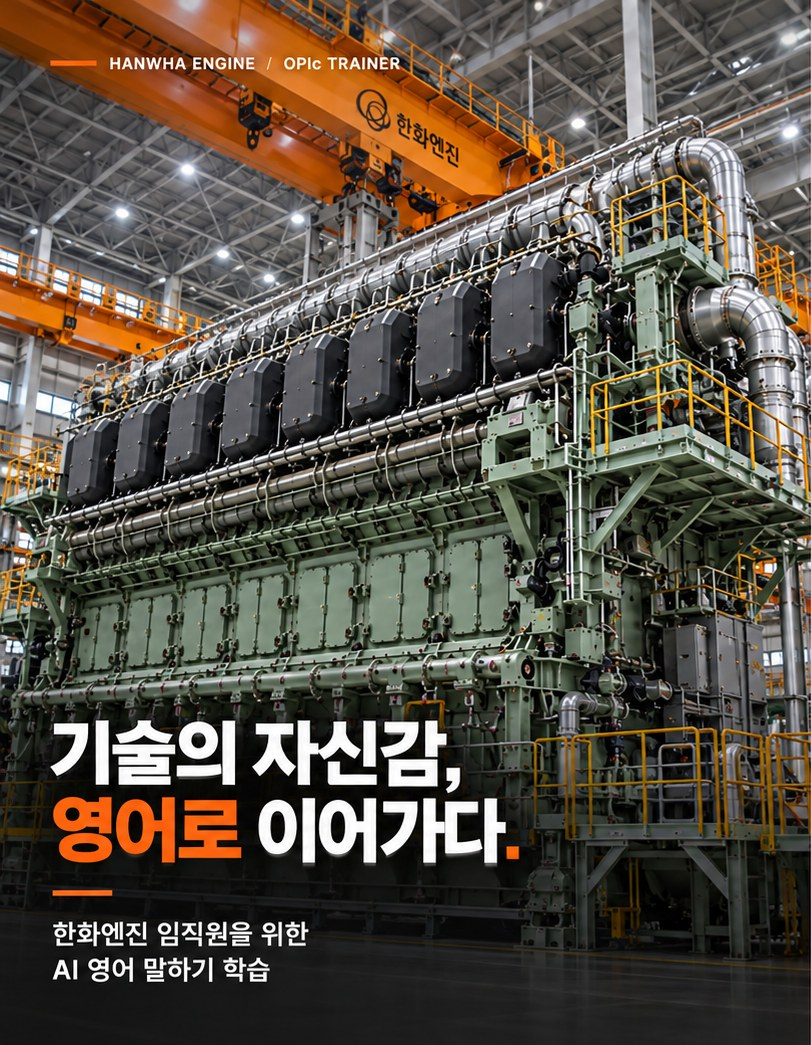
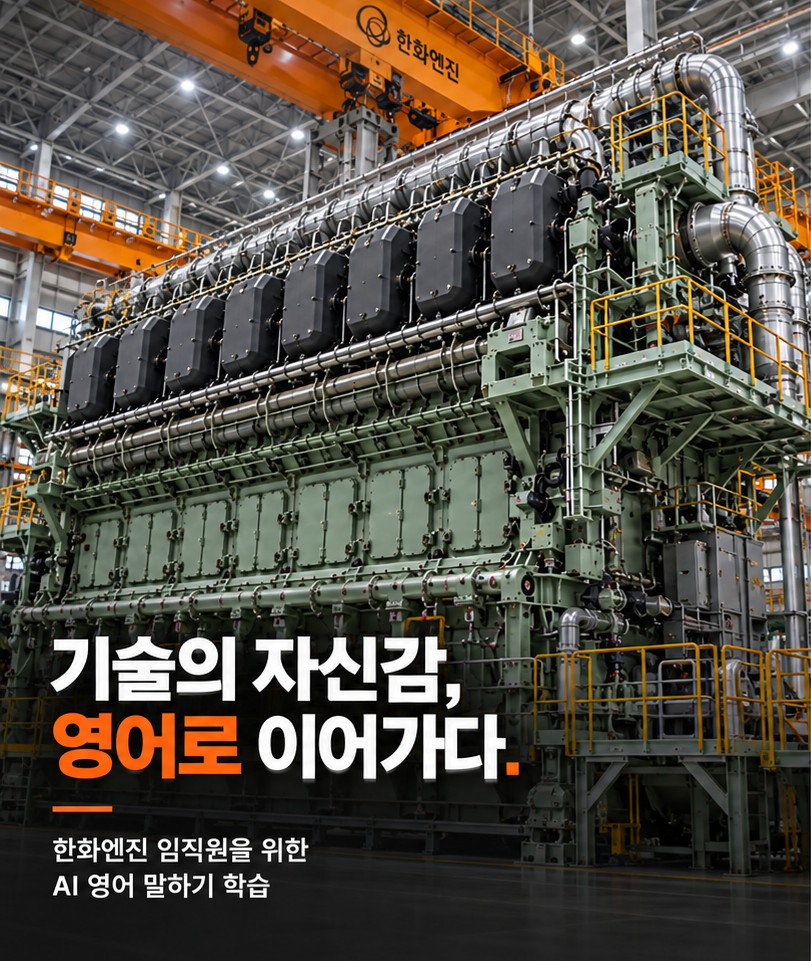
fix: 로고를 실제 마크로 바꾸고, 로그인 사진 잘림 해결, 대시보드 배너를 시안 사진으로 복귀
로고
- 실제 마크는 같은 크기의 타원 고리 둘이 왼쪽 위·오른쪽 아래로 어긋나 겹치고,
  아래쪽 교차점에서 연한 고리가 진한 고리 위로 지나간다.
  원 하나에 나선을 그려 넣었던 것을 이 구성으로 다시 그렸다
- 카드처럼 자리가 좁은 곳을 위해 사명 없이 마크만 그리는 선택지를 뒀다

로그인 사진 잘림
- 사진에 큰 문구가 박혀 있는데 화면 비율은 사람마다 다르다.
  꽉 채우면(object-cover) 어딘가는 잘리고, 짧고 넓은 화면에서는
  하필 아래쪽 문구가 잘려 나가고 있었다
- 문구가 왼쪽 아래에 있으므로 그쪽을 기준으로 붙였다(object-left-bottom).
  이제 어느 비율에서도 문구는 잘리지 않는다
- 대신 잘리는 위쪽 소제목은 사진에서 떼어 내고 화면이 그린다.
  밝은 천장 위에서도 읽히도록 위쪽만 살짝 어둡게 깔았다
- 1680x860 처럼 짧고 넓은 화면에서 확인

대시보드 배너
- 공장 사진으로 바꿔 뒀던 것을 시안의 항구·선박 사진으로 되돌렸다
- 흐렸던 원인은 사진이 아니라 사진에 박힌 글자였다.
  시안 하늘 위의 손글씨 문구와 영문 표어를 지우고(하늘이라 좌우로 이어 붙였다)
  그 자리에 같은 문구를 화면이 그린다. 이제 글자는 사진 해상도와 무관하다
- 사진에 박힌 흰 카드는 반투명이라 지울 수 없다.
  잰 자리 그대로 불투명한 카드로 덮어 가린다
- 좁은 화면에서는 덮을 수가 없다(사진이 잘리면 자리가 어긋난다).
  그래서 좁은 화면에서는 카드가 통째로 잘려 나가도록 배너 비를 따로 뒀다

그 밖에
- 절대 위치 요소의 % 안쪽 여백은 자기 폭이 아니라 배너 폭을 기준으로 잡힌다.
  204px 카드에 61px 여백이 들어가 글자가 다 접히고 있었다. 고정값으로 바꿈
- 배너 칸에 min-height 를 두지 않는다. 비와 함께 걸면 칸의 최소 폭이
  화면보다 넓어져 옆 글씨가 잘린다

확인 (2배 해상도)
- 1505 / 1405 / 1680x860 / 820 / 390 전부 촬영
- 문구·표어·카드 모두 또렷, 로그인 사진 문구 잘림 없음,
  좁은 화면에서 박힌 카드 노출 없음, 가로 넘침 0px, 콘솔 오류 없음

Claude-Session: https://claude.ai/code/session_01Td3b53ag1uMcCyGUa6hHky

diff --git a/components/dashboard/DashboardHero.tsx b/components/dashboard/DashboardHero.tsx
@@ -52,8 +52,11 @@ export function DashboardHero({
 
         {/* 오른쪽 — 캠퍼스 */}
         <div
-          className="hero-photo relative min-h-[200px]"
-          style={{ "--hero-aspect": BRAND.heroAspect } as React.CSSProperties}
+          className="hero-photo relative"
+          style={{
+            "--hero-aspect": BRAND.heroAspect,
+            "--hero-aspect-narrow": BRAND.heroAspectNarrow,
+          } as React.CSSProperties}
         >
           {!noPhoto && (
             // 정적 배포라 next/image 최적화를 쓰지 않는다
@@ -61,7 +64,7 @@ export function DashboardHero({
             <img
               src={BRAND.heroImage}
               alt={`${BRAND.org} 학습 배너`}
-              className="absolute inset-0 h-full w-full object-cover object-[58%_38%]"
+              className="absolute inset-0 h-full w-full object-cover object-left"
               onError={() => setNoPhoto(true)}
             />
           )}
@@ -69,15 +72,15 @@ export function DashboardHero({
           {/* 사진을 못 받았을 때 대신 그리는 배경 */}
           {noPhoto && <CampusScene />}
 
+          {/* 왼쪽 흰 글씨판과 만나는 자리를 부드럽게 잇는다 (문구보다 먼저 깐다) */}
+          <div className="absolute inset-y-0 left-0 w-14 bg-gradient-to-r from-white to-transparent" />
+
           {/*
             문구가 사진에 박혀 있지 않은 브랜드는 여기서 문구를 그린다.
             사진을 잘라 붙이면 글자가 사진 해상도에 묶여 흐려진다.
             글자는 브라우저가 그려야 어느 크기에서도 또렷하다.
           */}
           {!BRAND.heroTextBaked && <HeroCaption />}
-
-          {/* 왼쪽 흰 글씨판과 만나는 자리를 부드럽게 잇는다 */}
-          <div className="absolute inset-y-0 left-0 w-16 bg-gradient-to-r from-white to-transparent" />
         </div>
       </div>
     </section>
@@ -87,54 +90,50 @@ export function DashboardHero({
 /**
  * 배너에 얹는 문구와 카드.
  *
- * 시안의 배치를 그대로 따른다 — 왼쪽 위 손글씨 문구, 그 아래 영문 표어,
- * 오른쪽 아래 흰 카드. 위치를 % 로 잡아 배너가 커지든 작아지든 같은 자리에 온다.
- * 사진이 어두워 글자가 묻히지 않도록 왼쪽에 흰 장막을 깐다.
+ * 자리와 크기는 시안(935x387)에서 잰 값을 % 로 옮긴 것이다.
+ * 배너가 커지든 작아지든 같은 자리, 같은 비율로 온다.
+ * 글자 크기는 화면 폭이 아니라 배너 폭을 따른다(cqw).
+ *
+ * 사진 왼쪽이 하늘이라 덧칠 없이도 글씨가 읽힌다.
  */
 function HeroCaption() {
   return (
     <>
-      {/*
-        시안은 왼쪽 위가 하늘이라 저절로 밝다. 공장 사진은 그렇지 않으므로
-        글자가 앉는 왼쪽 위만 밝게 덮는다. 오른쪽은 사진 그대로 둔다.
-      */}
-      <div
-        className="absolute inset-0"
-        style={{
-          backgroundImage:
-            "radial-gradient(118% 112% at 0% 0%, rgba(255,255,255,0.97) 0%, rgba(255,255,255,0.88) 30%, rgba(255,255,255,0.55) 46%, rgba(255,255,255,0.12) 62%, rgba(255,255,255,0) 74%)",
-        }}
-      />
-
       {/* 손글씨 문구 — 살짝 기울여 손으로 쓴 느낌을 준다 */}
-      <p
-        className="absolute left-[5%] top-[13%] -rotate-[7deg] text-[clamp(15px,2.2cqw,26px)] font-extrabold leading-[1.45] text-dku-600 [text-shadow:0_1px_6px_rgba(255,255,255,0.95),0_0_2px_rgba(255,255,255,0.95)]"
-        style={{ letterSpacing: "0.01em" }}
-      >
+      <p className="absolute left-[4.7%] top-[11%] -rotate-[7deg] text-[clamp(14px,3.1cqw,30px)] font-extrabold leading-[1.5] text-[#F0701E] [text-shadow:0_1px_5px_rgba(255,255,255,0.8)]">
         {BRAND.heroScript[0]}
         <br />
         {BRAND.heroScript[1]}
       </p>
 
       {/* 영문 표어 */}
-      <div className="absolute left-[23%] top-[35%] hidden lg:block">
-        <p className="text-[clamp(8px,1.05cqw,13px)] font-bold leading-[1.7] tracking-[0.16em] text-slate-700 [text-shadow:0_1px_6px_rgba(255,255,255,0.95),0_0_2px_rgba(255,255,255,0.95)]">
+      <div className="absolute left-[24%] top-[33%] hidden lg:block">
+        <p className="text-[clamp(8px,1.2cqw,12px)] font-bold leading-[1.6] tracking-[0.12em] text-slate-600">
           {BRAND.motto[0]}
           <br />
           {BRAND.motto[1]}
         </p>
-        <div className="mt-1.5 h-[2px] w-7 rounded-full bg-dku-500" />
+        <div className="mt-2 h-[2px] w-[38px] rounded-full bg-[#F0701E]" />
       </div>
 
-      {/* 오른쪽 아래 카드 */}
-      <div className="absolute bottom-[8%] right-[3.5%] hidden w-[24%] min-w-[170px] rounded-2xl bg-white/95 p-[5%] shadow-lg shadow-slate-900/10 backdrop-blur-sm lg:block">
-        <BrandLogo />
-        <p className="mt-2.5 text-[clamp(11px,1.35cqw,15px)] font-bold leading-snug text-slate-800">
+      {/*
+        오른쪽 아래 카드.
+
+        사진에 같은 카드가 흐릿하게 박혀 있다. 잰 자리 그대로 덮어 가리므로
+        속을 비치게 두면 박힌 글씨가 배어 나온다. 불투명한 흰색을 쓴다.
+
+        안쪽 여백은 % 로 주면 안 된다. 절대 위치 요소의 % 여백은 자기 폭이
+        아니라 배너 폭을 기준으로 잡혀 카드보다 큰 여백이 생긴다.
+      */}
+      <div className="absolute right-[3.3%] top-[52.7%] hidden h-[43.4%] w-[23.5%] flex-col justify-center overflow-hidden rounded-2xl bg-white px-4 shadow-lg shadow-slate-900/15 lg:flex">
+        <BrandLogo markOnly />
+        <p className="mt-2 text-[13px] font-bold leading-snug text-slate-800">
           {BRAND.heroCard[0]}
           <br />
           {BRAND.heroCard[1]}
         </p>
-        <p className="mt-3 text-[clamp(8px,0.95cqw,11px)] font-bold leading-[1.6] tracking-[0.08em] text-slate-400">
+        <div className="mt-2.5 h-[2px] w-6 rounded-full bg-[#F0701E]" />
+        <p className="mt-2 text-[9px] font-bold leading-[1.55] tracking-[0.06em] text-slate-500">
           {BRAND.orgEn}
           <br />
           {BRAND.productTag}

diff --git a/components/BrandLogo.tsx b/components/BrandLogo.tsx
@@ -15,9 +15,12 @@ export type LogoSize = "md" | "lg";
 export function BrandLogo({
   className = "",
   size = "md",
+  markOnly = false,
 }: {
   className?: string;
   size?: LogoSize;
+  /** 사명 없이 마크만. 좁은 카드 안처럼 자리가 없는 곳에서 쓴다 */
+  markOnly?: boolean;
 }) {
   if (IMAGE_LOGO) {
     return (
@@ -30,34 +33,62 @@ export function BrandLogo({
     );
   }
   return ACTIVE === "hanwha"
-    ? <HanwhaMark className={className} size={size} />
-    : <DkuMark className={className} size={size} />;
+    ? <HanwhaMark className={className} size={size} markOnly={markOnly} />
+    : <DkuMark className={className} size={size} markOnly={markOnly} />;
 }
 
-/** 한화엔진 — 원형 마크 + 국문 사명 */
-function HanwhaMark({ className = "", size = "md" }: { className?: string; size?: LogoSize }) {
-  const ORANGE = "#F06021";
+/**
+ * 한화엔진 — 겹친 두 개의 타원 고리 + 국문 사명.
+ *
+ * 실제 마크는 같은 크기의 타원 고리 둘이 왼쪽 위·오른쪽 아래로 어긋나 겹친다.
+ * 뒤쪽(오른쪽 아래)이 연한 주황, 앞쪽(왼쪽 위)이 진한 주황이다.
+ */
+function HanwhaMark({ className = "", size = "md", markOnly = false }: { className?: string; size?: LogoSize; markOnly?: boolean }) {
+  const ORANGE = "#F0701E";
+  const ORANGE_PALE = "#F9C0A0";
   const big = size === "lg";
-  const px = big ? 52 : 34;
+  const px = big ? 54 : markOnly ? 30 : 36;
   return (
-    <span className={`inline-flex items-center ${big ? "gap-3.5" : "gap-2.5"} ${className}`}>
-      <svg width={px} height={px} viewBox="0 0 48 48" aria-label={BRAND.org} role="img">
-        <circle cx="24" cy="24" r="20" fill="none" stroke={ORANGE} strokeWidth="3.2" />
-        {/* 안쪽으로 말려 드는 곡선 — 엔진의 회전을 뜻한다 */}
-        <path
-          d="M24 9 C33 9 39 15 39 24 C39 31 33 36 26 36 C21 36 17 32.5 17 27.5 C17 23.5 20 20.5 24 20.5"
-          fill="none" stroke={ORANGE} strokeWidth="3.2" strokeLinecap="round"
+    <span className={`inline-flex items-center ${big ? "gap-3" : "gap-2"} ${className}`}>
+      <svg width={px} height={px} viewBox="0 0 52 52" aria-label={BRAND.org} role="img" fill="none">
+        <defs>
+          {/* 두 고리가 아래쪽에서 엇갈려 지나가는 자리 */}
+          <clipPath id="hanwha-mark-weave">
+            <rect x="2" y="27" width="24" height="25" />
+          </clipPath>
+        </defs>
+        {/* 뒤쪽 고리 — 오른쪽 아래, 연한 주황 */}
+        <ellipse
+          cx="30" cy="31" rx="16.5" ry="13.6"
+          transform="rotate(-32 30 31)"
+          stroke={ORANGE_PALE} strokeWidth="3.4"
         />
+        {/* 앞쪽 고리 — 왼쪽 위, 진한 주황 */}
+        <ellipse
+          cx="21" cy="21" rx="16.5" ry="13.6"
+          transform="rotate(-32 21 21)"
+          stroke={ORANGE} strokeWidth="3.4"
+        />
+        {/* 아래쪽 교차점만 다시 그려 연한 고리가 위로 지나가게 한다 */}
+        <g clipPath="url(#hanwha-mark-weave)">
+          <ellipse
+            cx="30" cy="31" rx="16.5" ry="13.6"
+            transform="rotate(-32 30 31)"
+            stroke={ORANGE_PALE} strokeWidth="3.4"
+          />
+        </g>
       </svg>
-      <span className={`font-extrabold tracking-tight text-slate-900 ${big ? "text-[34px]" : "text-[17px]"}`}>
-        {BRAND.org}
-      </span>
+      {!markOnly && (
+        <span className={`font-extrabold tracking-tight text-slate-900 ${big ? "text-[34px]" : "text-[17px]"}`}>
+          {BRAND.org}
+        </span>
+      )}
     </span>
   );
 }
 
 /** 단국대학교 — DKU 워드마크 + 궤도선 + 국·영문 교명 */
-function DkuMark({ className = "", size = "md" }: { className?: string; size?: LogoSize }) {
+function DkuMark({ className = "", size = "md", markOnly = false }: { className?: string; size?: LogoSize; markOnly?: boolean }) {
   const BLUE = "#1B4C9C";
   const big = size === "lg";
   return (
@@ -87,6 +118,7 @@ function DkuMark({ className = "", size = "md" }: { className?: string; size?: L
         </text>
       </svg>
 
+      {!markOnly && (
       <span className="leading-tight">
         <span className={`block font-extrabold tracking-tight ${big ? "text-[23px]" : "text-[15px]"}`} style={{ color: BLUE }}>
           단국대학교
@@ -95,6 +127,7 @@ function DkuMark({ className = "", size = "md" }: { className?: string; size?: L
           DANKOOK UNIVERSITY
         </span>
       </span>
+      )}
     </span>
   );
 }

diff --git a/components/LoginScreen.tsx b/components/LoginScreen.tsx
@@ -13,7 +13,11 @@ import { ADMIN_ID, ADMIN_PASSWORD, currentAccount, login } from "@/lib/account";
  * 소개 화면을 따로 두지 않는다. 사내 학습 도구라 링크를 여는 사람은
  * 서비스를 소개받으러 오는 것이 아니라 학습하러 오기 때문이다.
  *
- * 왼쪽 사진에는 문구가 이미 박혀 있다(브랜드마다 다른 사진).
+ * 왼쪽 사진에는 큰 문구가 박혀 있다. 화면 비율은 사람마다 다르므로
+ * object-cover 로 채우면 어딘가는 잘린다. 문구가 왼쪽 아래에 있으니
+ * 그쪽을 기준으로 붙여(object-left-bottom) 문구가 잘리는 일이 없게 한다.
+ * 대신 잘리는 위쪽 소제목은 사진에서 떼어 내고 화면이 그린다.
+ *
  * 좁은 화면에서는 사진을 접고 로그인 칸만 남긴다. 사진 속 글씨는 줄바꿈이
  * 안 되므로 억지로 넣으면 읽을 수 없게 된다.
  */
@@ -46,15 +50,26 @@ export function LoginScreen() {
   return (
     <main className="grid min-h-screen lg:grid-cols-[1fr_minmax(0,694px)]">
       {/* ── 왼쪽 사진 ─────────────────────────────────── */}
-      <div className="relative hidden bg-slate-900 lg:block">
+      <div className="relative hidden overflow-hidden bg-slate-800 lg:block">
         {/* 정적 배포라 next/image 최적화를 쓰지 않는다 */}
         {/* eslint-disable-next-line @next/next/no-img-element */}
         <img
           src={BRAND.loginImage}
           alt={`${BRAND.org} ${BRAND.product}`}
-          className="absolute inset-0 h-full w-full object-cover"
+          className="absolute inset-0 h-full w-full object-cover object-left-bottom"
           onError={(e) => { e.currentTarget.style.display = "none"; }}
         />
+
+        {/* 소제목이 밝은 천장 위에 놓여도 읽히도록 위쪽만 살짝 어둡게 */}
+        <div className="absolute inset-x-0 top-0 h-28 bg-gradient-to-b from-black/45 via-black/15 to-transparent" />
+
+        {/* 위쪽 소제목 — 사진이 잘려도 남도록 화면이 그린다 */}
+        <div className="absolute left-[6%] top-8 flex items-center gap-3">
+          <span className="block h-[3px] w-9 rounded-full bg-dku-500" />
+          <span className="text-[13px] font-bold tracking-[0.14em] text-white drop-shadow-[0_1px_3px_rgba(0,0,0,0.45)]">
+            {BRAND.orgEn} <span className="mx-1 text-white/60">/</span> {BRAND.productTag}
+          </span>
+        </div>
       </div>
 
       {/* ── 오른쪽 로그인 ─────────────────────────────── */}

diff --git a/lib/brand.ts b/lib/brand.ts
@@ -31,8 +31,15 @@ export interface Brand {
   heroQuote: string;
   /** 배너 사진 경로. 없으면 그린 배경이 나온다 */
   heroImage: string;
-  /** 배너 칸의 가로/세로 비 */
+  /** 배너 칸의 가로/세로 비 (두 칸으로 놓이는 넓은 화면) */
   heroAspect: string;
+  /**
+   * 좁은 화면에서 배너 칸의 가로/세로 비.
+   *
+   * 좁아지면 사진의 오른쪽이 잘려 나간다. 사진에 카드가 박혀 있는 경우
+   * 그 카드가 통째로 잘려 나가도록 비를 잡는다. 반쯤 걸치면 흉하다.
+   */
+  heroAspectNarrow: string;
   /**
    * 배너 문구가 사진 안에 이미 박혀 있는가.
    *
@@ -82,6 +89,7 @@ const BRANDS: Record<BrandKey, Brand> = {
     heroQuote: "지금의 노력이, 더 큰 기회를 만듭니다.",
     heroImage: "/dashboard-hero.jpg",
     heroAspect: "1095/466",
+    heroAspectNarrow: "1095/466",
     heroTextBaked: true,
     sideImage: "/campus.jpg",
     loginImage: "/campus.jpg",
@@ -108,7 +116,8 @@ const BRANDS: Record<BrandKey, Brand> = {
     heroLine: "글로벌 역량을 키우는 학습 루트",
     heroQuote: "오늘의 연습이, 내일의 자신감이 됩니다.",
     heroImage: "/hanwha-hero.jpg",
-    heroAspect: "945/389",
+    heroAspect: "935/387",
+    heroAspectNarrow: "660/387",
     heroTextBaked: false,
     sideImage: "/hanwha-side.jpg",
     loginImage: "/hanwha-login.jpg",

diff --git a/app/globals.css b/app/globals.css
@@ -56,6 +56,14 @@ html, body {
    * 화면 폭을 기준으로 잡으면 좁은 배너에 큰 글씨가 들어간다.
    */
   container-type: inline-size;
+
+  /*
+   * 세로로 쌓이는 좁은 화면. 사진의 오른쪽(카드가 박힌 자리)이 통째로
+   * 잘려 나가도록 더 정사각에 가까운 비를 쓴다.
+   * min-height 는 두지 않는다. 비와 함께 걸면 칸의 최소 폭이 화면보다
+   * 넓어져 옆 글씨가 잘린다.
+   */
+  aspect-ratio: var(--hero-aspect-narrow, var(--hero-aspect));
 }
 
 @media (min-width: 1024px) {
